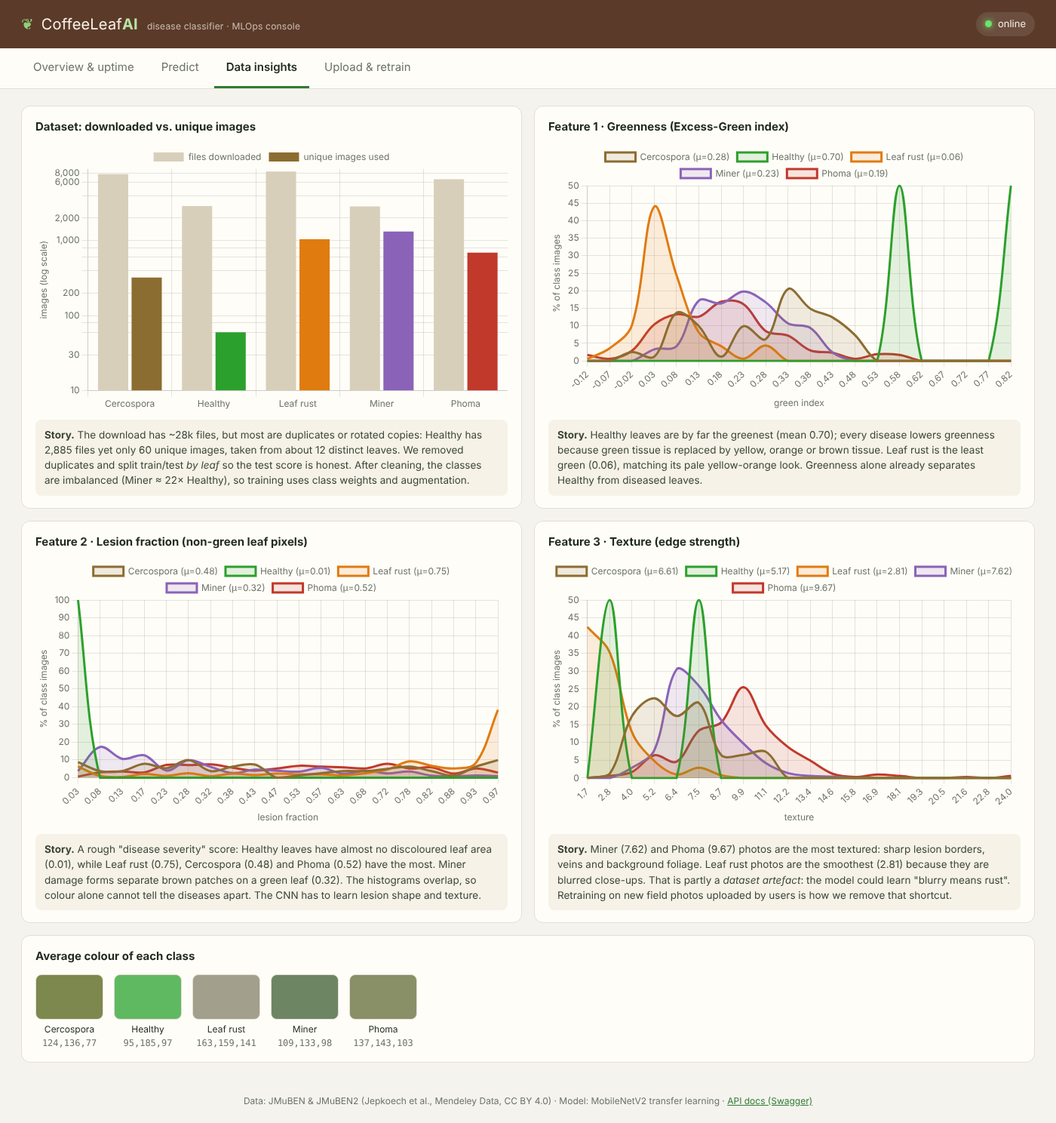
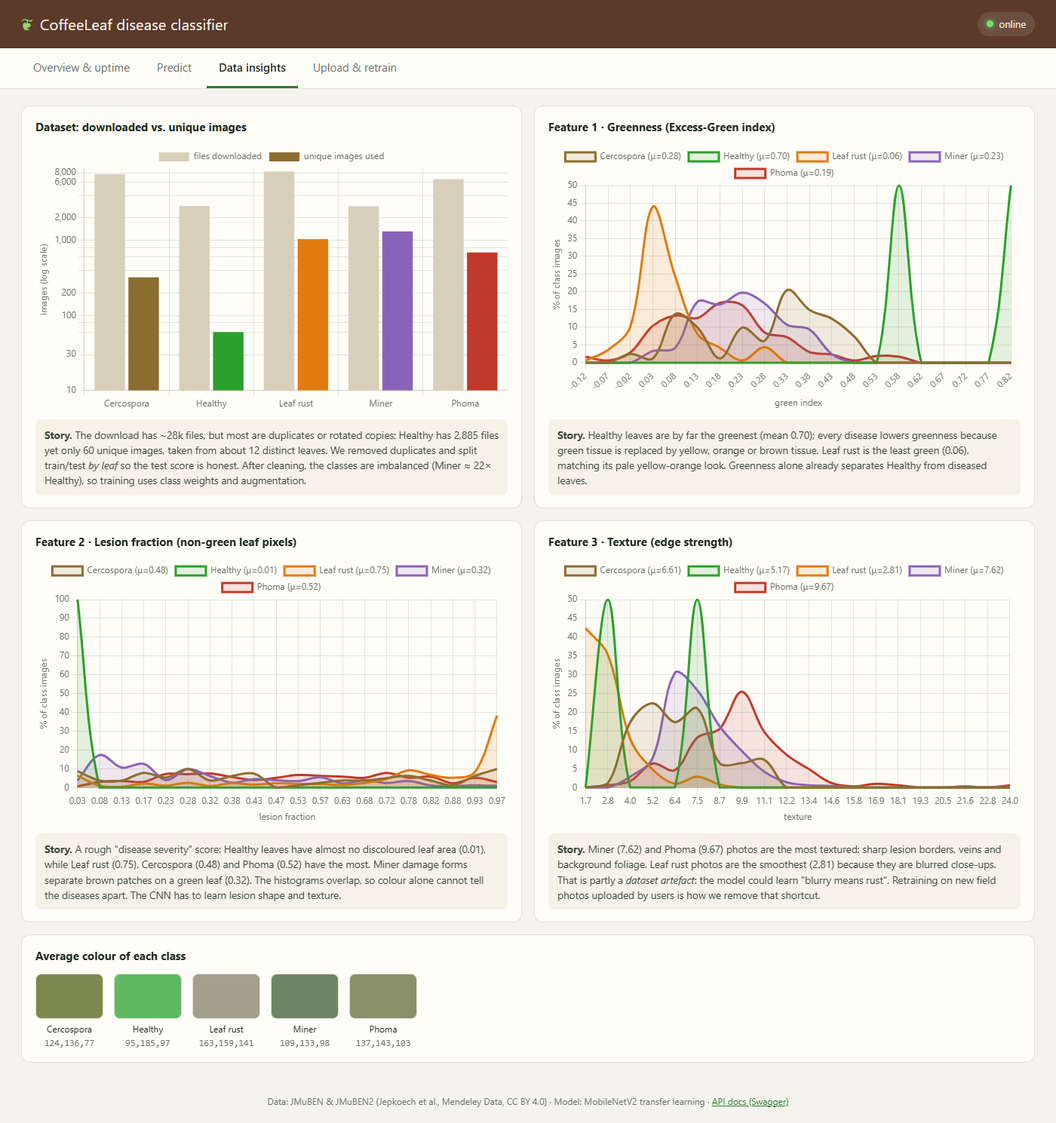
Update notebook, README and screenshots

diff --git a/README.md b/README.md
@@ -1,22 +1,21 @@
-# CoffeeLeaf AI: Coffee Leaf Disease Classification (end-to-end MLOps)
+# CoffeeLeaf: Coffee Leaf Disease Classification (end-to-end MLOps)
 
-An image classification pipeline that diagnoses **coffee leaf diseases from a photo**, covering data acquisition, preprocessing,
-transfer learning, evaluation, a REST API, a web dashboard, user-triggered and automatic **retraining**, Docker scaling and
-**Locust** load testing.
+An image classification pipeline that diagnoses **coffee leaf diseases from a photo**: data acquisition, preprocessing, transfer
+learning, evaluation, a REST API, a web dashboard, user-triggered and automatic **retraining**, Docker scaling and **Locust** load testing.
 
 | | |
 |---|---|
 | 🎥 **Video demo** | `https://youtu.be/<your-video-id>` |
-| 🌐 **Live app** | `https://coffeeleaf-keyla.onrender.com` (free tier: the first visit after 15 idle minutes takes ~1 min to wake up) |
-| 📘 **API docs (Swagger)** | `https://coffeeleaf-keyla.onrender.com/docs` |
+| 🌐 **Live app** | https://coffeeleaf-keyla.onrender.com (free tier: the first visit after 15 idle minutes takes ~1 min to wake up) |
+| 📘 **API docs (Swagger)** | https://coffeeleaf-keyla.onrender.com/docs |
 | 📓 **Notebook** | [`notebook/coffee_leaf_disease.ipynb`](notebook/coffee_leaf_disease.ipynb) |
 
 ---
 
 ## 1. Project description
 
-Most coffee is grown by smallholder farmers, and leaf diseases such as **coffee leaf rust** can wipe out a large share of a harvest.
-Early, cheap diagnosis from a phone photo helps farmers act before a disease spreads. The model classifies a leaf image into five classes:
+Leaf diseases such as **coffee leaf rust** can destroy a large share of a coffee harvest. Diagnosis from a phone photo helps farmers
+act early. The model classifies a leaf image into five classes:
 
 | Class | Meaning |
 |---|---|
@@ -27,13 +26,13 @@ Early, cheap diagnosis from a phone photo helps farmers act before a disease spr
 | `Phoma` | Phoma leaf spot / blight |
 
 **Data (images, CC BY 4.0, Jepkoech et al., Mendeley Data):**
-- JMuBEN: https://data.mendeley.com/datasets/t2r6rszp5c/1 (Cercospora, Leaf rust, Phoma)
-- JMuBEN2: https://data.mendeley.com/datasets/tgv3zb82nd/1 (Healthy, Miner)
+[JMuBEN](https://data.mendeley.com/datasets/t2r6rszp5c/1) (Cercospora, Leaf rust, Phoma) and
+[JMuBEN2](https://data.mendeley.com/datasets/tgv3zb82nd/1) (Healthy, Miner).
 
 ### Data audit: most of the download is duplicates
-The downloads contain 28,338 files, but they are mostly **copies**: exact duplicates plus rotated/flipped versions of the same photo.
+The downloads contain 28,338 files, mostly exact duplicates and rotated/flipped copies of the same photos.
 
-| Class | Files downloaded | Unique files (MD5) | Distinct leaves (rotation-invariant hash) | Train | Val | Test |
+| Class | Files downloaded | Unique files | Distinct leaves | Train | Val | Test |
 |---|---:|---:|---:|---:|---:|---:|
 | Cercospora | 7,681 | 322 | 81 | 209 | 45 | 68 |
 | Healthy | 2,885 | 60 | 12 | 40 | 10 | 10 |
@@ -42,33 +41,29 @@ The downloads contain 28,338 files, but they are mostly **copies**: exact duplic
 | Phoma | 6,571 | 691 | 181 | 447 | 108 | 136 |
 | **Total** | **28,338** | **3,436** | **1,255** | **2,231** | **517** | **688** |
 
-A random split would put copies of the same leaf in both train and test and give inflated scores. This project removes duplicates and
-**splits by leaf group**, so no rotation or flip of a test leaf is ever seen in training. The scores below are honest generalisation estimates.
-*Limitation:* this project used a random **sample** of JMuBEN2 (2,885 Healthy / 2,865 Miner files of 18,985 / 16,979). We checked the full release:
-its ~19,000 Healthy files contain only **63 unique images**, so the small number of distinct Healthy leaves (~12) comes from the dataset itself, not
-our sampling. The Healthy test score (10 images) therefore has high variance. More Healthy photos would have to come from new field images, which the
-app's upload + retrain feature is built to take in.
+A random split would put copies of the same leaf in both train and test and inflate the scores, so duplicates are removed and the
+data is **split by leaf**: no rotation or flip of a test leaf is ever trained on.
+*Limitation:* the full JMuBEN2 release has ~19,000 Healthy files but only **63 unique images**, so Healthy has few distinct leaves
+and its test score (10 images) has high variance. New field photos can be added through the app's upload + retrain feature.
 
 ---
 
 ## 2. Results (held-out test set, 688 images)
 
-| Metric | Baseline CNN (from scratch, no tuning) | **MobileNetV2 transfer learning (production)** |
+| Metric | Baseline CNN (from scratch) | **MobileNetV2 transfer learning (production)** |
 |---|---:|---:|
 | Accuracy | 0.943 | **0.978** |
 | Loss (cross-entropy) | 0.223 | **0.085** |
 | Precision (macro) | 0.890 | **0.984** |
 | Recall (macro) | 0.952 | **0.983** |
 | F1 (macro) | 0.915 | **0.983** |
-| F1 (weighted) | 0.944 | **0.978** |
 | ROC-AUC (one-vs-rest, macro) | 0.991 | **0.999** |
 
-Per-class F1 (production): Cercospora 1.00 · Healthy 1.00 · Leaf rust 1.00 · Miner 0.97 · Phoma 0.95. All remaining errors are Miner ↔ Phoma confusions,
-which are visually similar brown necrotic lesions.
+All remaining errors are Miner ↔ Phoma confusions (both show brown necrotic lesions).
 
-**Optimisation techniques:** ImageNet pre-trained MobileNetV2 (frozen, then top 30 layers fine-tuned), Adam optimiser with `ReduceLROnPlateau`,
-**early stopping** (restores best weights), **Dropout + L2** regularisation, data augmentation (flips, rotation, zoom, contrast), class weights for
-the 22:1 imbalance, and a **hyper-parameter search** (learning rate × dropout) selected on the validation set.
+**Optimisation:** ImageNet pre-trained MobileNetV2 (frozen, then top 30 layers fine-tuned), Adam with learning-rate reduction,
+**early stopping**, **Dropout + L2** regularisation, data augmentation, class weights for the 22:1 imbalance, and a
+**hyper-parameter search** (learning rate × dropout) on the validation set.
 
 ---
 
@@ -76,14 +71,12 @@ the 22:1 imbalance, and a **hyper-parameter search** (learning rate × dropout) 
 
 | Feature | Where |
 |---|---|
-| **Model up-time**: live status, uptime counter, availability %, health-check latency chart | *Overview & uptime* tab, `GET /health` |
+| **Model up-time**: status, uptime, availability, health-check latency chart | *Overview & uptime* tab, `GET /health` |
 | **Model evaluation in production**: test metrics, confusion matrix, training curves, request latency | *Overview* tab, `GET /model`, `GET /stats` |
-| **Predict one image**: upload a leaf photo, get class, confidence, all class probabilities | *Predict* tab, `POST /predict` |
-| **Data visualisations**: dataset audit + 3 interpreted features (greenness, lesion fraction, texture) + class colours | *Data insights* tab, `GET /insights` |
-| **Bulk upload**: many images + a class, or a zip with one folder per class; saved to disk and registered in SQLite | *Upload & retrain* tab, `POST /upload` |
-| **Retraining trigger**: a button, plus an **automatic trigger** when ≥ `RETRAIN_THRESHOLD` (default 50) new images are waiting | *Upload & retrain* tab, `POST /retrain` |
-
-*Screenshots taken after one retraining run on `samples/retrain_batch.zip` (accuracy 97.8% → 98.0%, macro F1 0.983 → 0.984, promoted).*
+| **Prediction**: upload one leaf photo → class, confidence, all class probabilities | *Predict* tab, `POST /predict` |
+| **Data visualisations**: dataset audit + 3 interpreted features | *Data insights* tab, `GET /insights` |
+| **Bulk upload**: many images + a class, or a zip with one folder per class, stored in SQLite | *Upload & retrain* tab, `POST /upload` |
+| **Retraining**: a button, plus an **automatic trigger** when 50 new images are waiting | *Upload & retrain* tab, `POST /retrain` |
 
 | Overview & uptime | Prediction |
 |---|---|
@@ -92,52 +85,48 @@ the 22:1 imbalance, and a **hyper-parameter search** (learning rate × dropout) 
 | ![insights](docs/screenshots/insights.png) | ![retrain](docs/screenshots/retrain_done.png) |
 
 ### The three features and the story they tell
-1. **Greenness (Excess-Green index).** Healthy leaves are by far the greenest (mean 0.70). Every disease lowers greenness as chlorophyll tissue
-   turns yellow, orange or brown, and Leaf rust is the least green (0.06). Greenness alone separates healthy from diseased leaves.
-2. **Lesion fraction** (share of leaf pixels that are not green) works as a crude severity score: Healthy ≈ 0.01, Miner 0.32 (separate brown mines on a
-   green leaf), Cercospora 0.48, Phoma 0.52, Leaf rust 0.75. The diseases overlap heavily, so colour alone cannot tell them apart, and the CNN has to learn
-   lesion *shape* and *texture*.
-3. **Texture (edge strength).** Phoma (9.7) and Miner (7.6) images have the sharpest lesion borders; Leaf rust images are the smoothest (2.8) because the
-   rust photos are blurred close-ups. That is a **dataset artefact** the model could exploit ("blurry means rust"), and it is the main reason the
-   retraining loop matters: new field photos remove that shortcut.
+1. **Greenness (Excess-Green index).** Healthy leaves are by far the greenest (mean 0.70); every disease lowers greenness as green
+   tissue turns yellow or brown, and Leaf rust is the least green (0.06). Greenness alone separates healthy from diseased leaves.
+2. **Lesion fraction** (share of the leaf that is not green) acts as a severity score: Healthy ≈ 0.01, Miner 0.32, Cercospora 0.48,
+   Phoma 0.52, Leaf rust 0.75. The diseases overlap, so colour alone cannot tell them apart: the CNN has to learn lesion *shape* and *texture*.
+3. **Texture (edge strength).** Phoma (9.7) and Miner (7.6) images have the sharpest lesion borders; Leaf rust images are the smoothest
+   (2.8) because they are blurred close-ups. That is a **dataset artefact** the model could exploit, and the reason retraining on new
+   field photos matters.
 
 ---
 
 ## 4. How the deployed model works, and how it is retrained
 
-The notebook trains the full Keras model (`models/coffee_leaf_model.h5`). For deployment it is exported in two parts that
-together give **identical predictions** (same class on all 688 test images, same accuracy and F1; notebook section 7.1):
+The notebook trains the full Keras model (`models/coffee_leaf_model.h5`). For deployment it is exported in two parts that give
+**identical predictions** (same class on all 688 test images; notebook section 7.1), so the API runs without TensorFlow in
+~100 MB of RAM and fits a free 512 MB cloud instance:
 
 ```
 image ─► feature_extractor.tflite ─► 1,280 features ─► classifier_head.npz ─► 5 class probabilities
-         (Rescaling + fine-tuned MobileNetV2,           (trained Dense 128 + Dense 5,
-          TensorFlow Lite)                               NumPy)
+         (fine-tuned MobileNetV2, TensorFlow Lite)      (trained Dense 128 + Dense 5, NumPy)
 ```
 
-The API therefore needs no TensorFlow: it starts in seconds and uses ~100 MB of RAM (~250 MB peak while retraining),
-so it runs on a free 512 MB cloud instance. TensorFlow itself needs ~600 MB, and the full Keras fine-tuning ~1.5 GB.
-
 ```
-UI / API upload ──► data/uploads/<class>/  +  SQLite (data/mlops.db, status = pending)
+Upload (UI / API) ──► data/uploads/<class>/  +  SQLite database (status = pending)
                             │
-   trigger: "Retrain model" button  OR  automatic when pending ≥ RETRAIN_THRESHOLD (50)
+   trigger: "Retrain model" button  OR  automatic when 50 images are pending
                             ▼
- 1. Preprocess  - validate, RGB, resize 128×128, de-duplicate vs. existing data → data/train/<class>/
- 2. Features    - new images go through OUR fine-tuned MobileNetV2 (feature_extractor.tflite);
-                  the features of all existing images are stored in data/embeddings.npz
- 3. Start point - the CURRENT production classifier head (classifier_head.npz) = the custom pre-trained model
- 4. Fine-tune   - on existing + new training features (Adam, class weights, L2, early stopping on validation)
+ 1. Preprocess  - validate, RGB, resize 128×128, de-duplicate, extract features, reject non-leaf images
+ 2. Data        - stored features of the existing training images + the new ones
+ 3. Start point - the CURRENT production model (our own trained model) as the pre-trained model
+ 4. Fine-tune   - Adam, class weights, L2, early stopping on the validation set
  5. Evaluate    - old vs. new model on the same held-out test set
- 6. Promote     - only if neither accuracy nor macro-F1 drops by > 2 points; the old head is archived in models/archive/
- 7. Log         - run stored in the training_runs table and shown live in the UI; every container reloads the new model
+ 6. Promote     - only if accuracy and macro-F1 do not drop; the old model is archived
+ 7. Log         - stored in the database and shown live in the UI; every container reloads the new model
 ```
 
-Keeping MobileNetV2 fixed during retraining is a deliberate deployment trade-off: retraining takes seconds and fits in 512 MB.
+Keeping MobileNetV2 fixed during retraining is a deliberate trade-off: retraining takes seconds and fits in 512 MB.
 Code: [`src/retrain.py`](src/retrain.py), [`src/serving.py`](src/serving.py), [`src/database.py`](src/database.py).
-Command line: `python -m src.retrain --upload-dir path/to/<class>/<images>`.
 
 **Images that are not coffee leaves.** A classifier always picks one of its classes, even for a photo of a person. So before
-diagnosing, the app measures how far the image's features are from its 5 nearest training images (cosine distance). Above 0.47 the app answers *"This doesn't look like a coffee leaf photo (it is far from every image the model was trained on), so no diagnosis is given."* Retraining applies the same check to uploads, so non-leaf images never enter the training data.
+diagnosing, the app measures how far the image's features are from its 5 nearest training images (cosine distance). Above 0.47
+it answers *"This doesn't look like a coffee leaf photo (it is far from every image the model was trained on), so no diagnosis is
+given."* All 688 test leaves pass this check. Retraining applies the same check to uploads, so non-leaf images never enter the training data.
 
 ---
 
@@ -146,140 +135,75 @@ diagnosing, the app measures how far the image's features are from its 5 nearest
 ```
 coffee_leaf_mlops/
 ├── README.md
-├── notebook/
-│   └── coffee_leaf_disease.ipynb   # acquisition, audit, EDA, preprocessing, training, evaluation (executed)
+├── notebook/coffee_leaf_disease.ipynb   # acquisition, audit, EDA, preprocessing, training, evaluation, export
 ├── src/
-│   ├── config.py                   # paths + settings (env-overridable)
-│   ├── data_acquisition.py         # Mendeley zips → de-duplicated, group-split data/train & data/test
-│   ├── preprocessing.py            # image loading/resizing, features, insights
-│   ├── model.py                    # architecture, training, evaluation, save/load, export for serving
-│   ├── serving.py                  # lightweight model used by the API: TFLite features + NumPy head
-│   ├── prediction.py               # thread-safe predictor with hot reload
-│   ├── retrain.py                  # upload ingestion + retraining pipeline
-│   └── database.py                 # SQLite: uploads + training runs
-├── api/main.py                     # FastAPI app (serves the UI too)
-├── ui/                             # dashboard (HTML/CSS/JS, Chart.js bundled locally)
+│   ├── config.py                        # paths and settings
+│   ├── data_acquisition.py              # Mendeley zips → de-duplicated, leaf-grouped data/train & data/test
+│   ├── preprocessing.py                 # image loading/resizing, features, insights
+│   ├── model.py                         # architecture, training, evaluation, export for serving
+│   ├── serving.py                       # lightweight model used by the API
+│   ├── prediction.py                    # prediction
+│   ├── retrain.py                       # upload ingestion + retraining pipeline
+│   └── database.py                      # SQLite: uploads + training runs
+├── api/main.py                          # FastAPI app (also serves the UI)
+├── ui/                                  # web dashboard
 ├── data/
-│   ├── train/<class>/*.jpg         # 2,748 images (train + validation, see split_manifest.csv)
-│   ├── test/<class>/*.jpg          # 688 held-out images
-│   ├── split_manifest.csv          # every image's split + leaf group
-│   ├── embeddings.npz              # stored features of every image (used by retraining)
-│   └── dataset_summary.json, insights.json
+│   ├── train/<class>/                   # 2,748 images (train + validation)
+│   ├── test/<class>/                    # 688 held-out images
+│   └── split_manifest.csv, embeddings.npz, insights.json, dataset_summary.json
 ├── models/
-│   ├── coffee_leaf_model.h5        # trained Keras model (MobileNetV2)
-│   ├── feature_extractor.tflite    # its exported MobileNetV2 part (used by the API)
-│   ├── classifier_head.npz         # its exported classifier head (used by the API, updated by retraining)
-│   ├── baseline_cnn.h5             # baseline for comparison
-│   ├── metrics.json, class_names.json
-├── samples/                        # demo files: predict/ images + retrain_batch(_small).zip
-├── docs/screenshots/               # UI screenshots used in this README
-├── locustfile.py                   # flood test
-├── scripts/                        # load-test runner, summary, demo-file generator
-├── Dockerfile, docker-compose.yml, nginx/nginx.conf
-├── render.yaml                     # cloud deployment (Render)
-└── requirements.txt, requirements-dev.txt, requirements-docker.txt   # local / + notebook & Locust / Docker (no TensorFlow)
+│   ├── coffee_leaf_model.h5             # trained Keras model
+│   ├── feature_extractor.tflite, classifier_head.npz   # its export, used by the API
+│   └── baseline_cnn.h5, metrics.json, class_names.json
+├── samples/                             # demo images and zips for prediction and retraining
+├── locustfile.py, scripts/              # load test
+├── Dockerfile, docker-compose.yml, nginx/, render.yaml
+└── requirements.txt, requirements-dev.txt, requirements-docker.txt
 ```
 
 ---
 
 ## 6. Setup
 
-### Option A: run locally with Python 3.11 or 3.12
+### Run locally (Python 3.11 or 3.12)
 ```bash
-git clone https://github.com/<you>/coffee_leaf_mlops.git
+git clone https://github.com/KeylaNyacyesa/coffee_leaf_mlops.git
 cd coffee_leaf_mlops
-conda create -n coffeeleaf python=3.12 -y && conda activate coffeeleaf      # or: python -m venv .venv
+conda create -n coffeeleaf python=3.12 -y && conda activate coffeeleaf
 pip install -r requirements-dev.txt
 uvicorn api.main:app --port 8000
 ```
-Open **http://localhost:8000** (UI) and **http://localhost:8000/docs** (Swagger).
+Open http://localhost:8000 (UI) and http://localhost:8000/docs (Swagger).
+To re-run the notebook (~20 min on CPU): `jupyter notebook notebook/coffee_leaf_disease.ipynb`.
 
-> TensorFlow 2.21 (for the notebook) is pinned so the saved `.h5` loads exactly as trained. The API itself only needs `requirements-docker.txt`.
-
-**Re-run the notebook** (optional, ~20 min on CPU): `jupyter notebook notebook/coffee_leaf_disease.ipynb`.
-**Rebuild the dataset from the original downloads** (optional):
-`python -m src.data_acquisition --sources t2r6rszp5c-1.zip jmuben2_sample.zip`
-
-### Option B: Docker (single container)
+### Docker Compose (several containers behind nginx)
 ```bash
-docker build -t coffee-leaf-api .
-docker run -p 8000:8000 coffee-leaf-api
+docker compose up -d --build --scale api=3     # UI + API on http://localhost:8080
+docker compose down -v                         # stop and reset
 ```
 
-### Option C: Docker Compose, N containers behind nginx
-```bash
-docker compose up -d --build --scale api=3
-# UI + API on http://localhost:8080 (nginx round-robins across the 3 containers)
-docker compose down
-```
-The containers share volumes for `data/` and `models/`, so an upload or retrain in one container is visible to all, and every container
-hot-reloads a newly promoted model within 10 s.
+### Cloud deployment (Render, free)
+1. Push the repository to GitHub.
+2. On https://dashboard.render.com: **New → Web Service** → this repository → Language **Docker**, Instance type **Free**,
+   Health check path `/health`, environment variable `TF_NUM_THREADS=1` → **Deploy Web Service**.
+3. The app is live at `https://<service-name>.onrender.com`; every push to `main` redeploys it.
 
-### Option D: cloud deployment on Render (free, no credit card)
-1. Push the repository to GitHub (public).
-2. Sign in at https://dashboard.render.com with GitHub → **New → Web Service** → pick the repository.
-3. Settings: **Language** Docker, **Branch** main, **Instance type** Free, **Health check path** `/health`
-   (under *Advanced*), environment variable `TF_NUM_THREADS` = `1`. Click **Deploy Web Service**.
-4. The first build takes ~5 min; the app is then live at `https://<service-name>.onrender.com`.
-   Every push to `main` redeploys automatically.
-
-*Notes:* free instances sleep after 15 minutes without traffic (the next visit takes ~1 minute) and start from the
-committed data and model again after a restart, so uploads and retrained models are kept only while the instance is up.
-[`render.yaml`](render.yaml) holds the same settings as a Blueprint.
+### Using the app
+- **Predict:** *Predict* tab → an image from `samples/predict/` → **Predict**.
+- **Retrain with the button:** *Upload & retrain* tab → upload `samples/retrain_batch_small.zip` (25 images) → **Retrain model**.
+- **Automatic retraining:** upload `samples/retrain_batch.zip` (60 images, above the threshold of 50).
 
 ---
 
-## 7. Using the app
+## 7. Flood request simulation (Locust)
 
-**Predict:** *Predict* tab → drop an image (use `samples/predict/` or anything in `data/test/`) → **Predict**.
-API: `curl -F "file=@samples/predict/Leaf_rust_1.jpg" http://localhost:8000/predict`
-
-**Upload + retrain:** *Upload & retrain* tab → choose `samples/retrain_batch.zip` (60 labelled images, 12 per class) → **Upload**.
-Because 60 ≥ the threshold of 50, retraining **starts automatically**. To use the button instead, upload `samples/retrain_batch_small.zip`
-(25 images, below the threshold) and click **Retrain model**. Watch the live log, then the history
-table shows old vs. new accuracy/F1 and whether the model was promoted; the *Overview* tab shows the new version and metrics.
-API:
-```bash
-curl -F "files=@samples/retrain_batch.zip" http://localhost:8000/upload
-curl -F "files=@leaf1.jpg" -F "files=@leaf2.jpg" -F "label=Healthy" http://localhost:8000/upload
-curl -X POST "http://localhost:8000/retrain?epochs=5"
-curl http://localhost:8000/retrain/status
-```
-`samples/retrain_batch.zip` is made by [`scripts/make_demo_samples.py`](scripts/make_demo_samples.py) from training images with new
-augmentations, which is good for demonstrating the pipeline. For a real improvement, upload genuinely new field photos (Healthy most of all). Re-uploading an image that is already in the dataset is detected and rejected.
-
-| Endpoint | Method | Purpose |
-|---|---|---|
-| `/` | GET | Web UI |
-| `/health` | GET | status, uptime, container id, model version |
-| `/stats` | GET | request count, prediction latency avg/p50/p95/p99 |
-| `/model` | GET | evaluation metrics + training history of the current model |
-| `/insights` | GET | dataset feature statistics for the visualisations |
-| `/predict` | POST | `file`: one image → class + probabilities |
-| `/upload` | POST | `files[]` (+ `label`) or zip(s) → stored for retraining |
-| `/uploads` | GET | pending / used / rejected counts per class |
-| `/retrain` | POST | start retraining (`epochs` query param) |
-| `/retrain/status` | GET | live log + history of training runs |
-
-Settings (environment variables): `RETRAIN_THRESHOLD` (50), `AUTO_RETRAIN` (true), `RETRAIN_EPOCHS` (30, with early stopping), `RETRAIN_LR` (5e-4), `PROMOTION_TOLERANCE` (0.02), `TF_NUM_THREADS` (all cores), `WORKERS` (1), `PORT` (8000).
-
----
-
-## 8. Flood request simulation (Locust)
-
-`locustfile.py` simulates farmers' phones: each user POSTs a random test image to `/predict` every 0.5–1.5 s (plus occasional `/health`).
-[`scripts/run_load_tests.py`](scripts/run_load_tests.py) runs the same load against **1, 2 and 4 containers** (each limited to 1 CPU, 2 GB) behind nginx,
-then [`scripts/summarize_load_tests.py`](scripts/summarize_load_tests.py) writes `load_test_results/summary.md` and `latency_vs_containers.png`.
+`locustfile.py` simulates 100 users, each sending a random test image to `/predict` every 0.5–1.5 s.
+[`scripts/run_load_tests.py`](scripts/run_load_tests.py) runs this load for 60 s against **1, 2 and 4 Docker containers**
+(each limited to 1 CPU and 512 MB) behind nginx, and writes `load_test_results/`.
 
 ```bash
-python scripts/run_load_tests.py                     # 100 users, 60 s per configuration (Docker Desktop must be running)
-# or interactively: docker compose up -d --scale api=2 && locust -f locustfile.py --host http://localhost:8080  → http://localhost:8089
+python scripts/run_load_tests.py      # Docker Desktop must be running
 ```
-
-### Results
-![latency](load_test_results/latency_vs_containers.png)
-
-## Flood test results: `/predict` (100 concurrent users, 60s per run)
 
 | Containers | Requests | Failures | Throughput (req/s) | Avg (ms) | Median (ms) | p95 (ms) | p99 (ms) | Max (ms) |
 |---:|---:|---:|---:|---:|---:|---:|---:|---:|
@@ -287,18 +211,18 @@ python scripts/run_load_tests.py                     # 100 users, 60 s per confi
 | 2 | 1134 | 0 | 19.3 | 3352 | 2300 | 8200 | 8600 | 12012 |
 | 4 | 2235 | 0 | 37.4 | 1306 | 1200 | 3000 | 3900 | 6919 |
 
+![latency](load_test_results/latency_vs_containers.png)
 
-**Interpretation:** `<what happened to latency and throughput as containers were added, where it stopped scaling, and why (e.g. host CPU cores saturated)>`
-
-For reference, a single uvicorn process (no Docker) on a 2-vCPU cloud VM served 30 concurrent users at ~26 req/s with a 17 ms median and 51 ms p95 latency, with 0 failures.
+**Interpretation:** Throughput scaled almost linearly with the number of containers: 8.6 → 19.3 → 37.4 requests/s (4.3× with 4
+containers), and the median response time fell from 10 s to 1.2 s, with 0 failed requests in all runs. With one container (1 CPU),
+100 users send far more requests than it can serve, so requests wait in a queue and the response time is mostly waiting time.
+Each added container adds one CPU of capacity, so the queue shrinks. At 4 containers the 95th percentile is still 3 s, so 100 users
+still exceed capacity; more containers (up to the PC's CPU cores) would be needed for sub-second responses.
+The free cloud plan runs a single instance, so the container comparison was done locally with Docker.
 
 ---
 
-## 9. Video demo checklist
-Camera **on** for the whole video. Show: (1) the live URL + uptime dashboard; (2) predicting an image whose true class you name first (e.g.
-`samples/predict/Phoma_1.jpg`) → correct prediction; (3) the data-insights tab and the three feature stories; (4) bulk-uploading
-`samples/retrain_batch.zip` → DB counts → retraining log → old vs. new metrics → promoted model version; (5) the Locust run / results table.
-
-## Licence & credits
+## Credits
 Dataset: Jepkoech, J., Mugo, D. M., Kenduiywo, B. K., Too, E. C. (2021). *Arabica coffee leaf images dataset for coffee leaf disease
-detection and classification.* Data in Brief 36, 107142. https://doi.org/10.1016/j.dib.2021.107142 (JMuBEN, JMuBEN2 on Mendeley Data, CC BY 4.0). Chart.js (MIT) is bundled in `ui/vendor/`.
+detection and classification.* Data in Brief 36, 107142. https://doi.org/10.1016/j.dib.2021.107142 (CC BY 4.0).
+Chart.js (MIT) is bundled in `ui/vendor/`.
